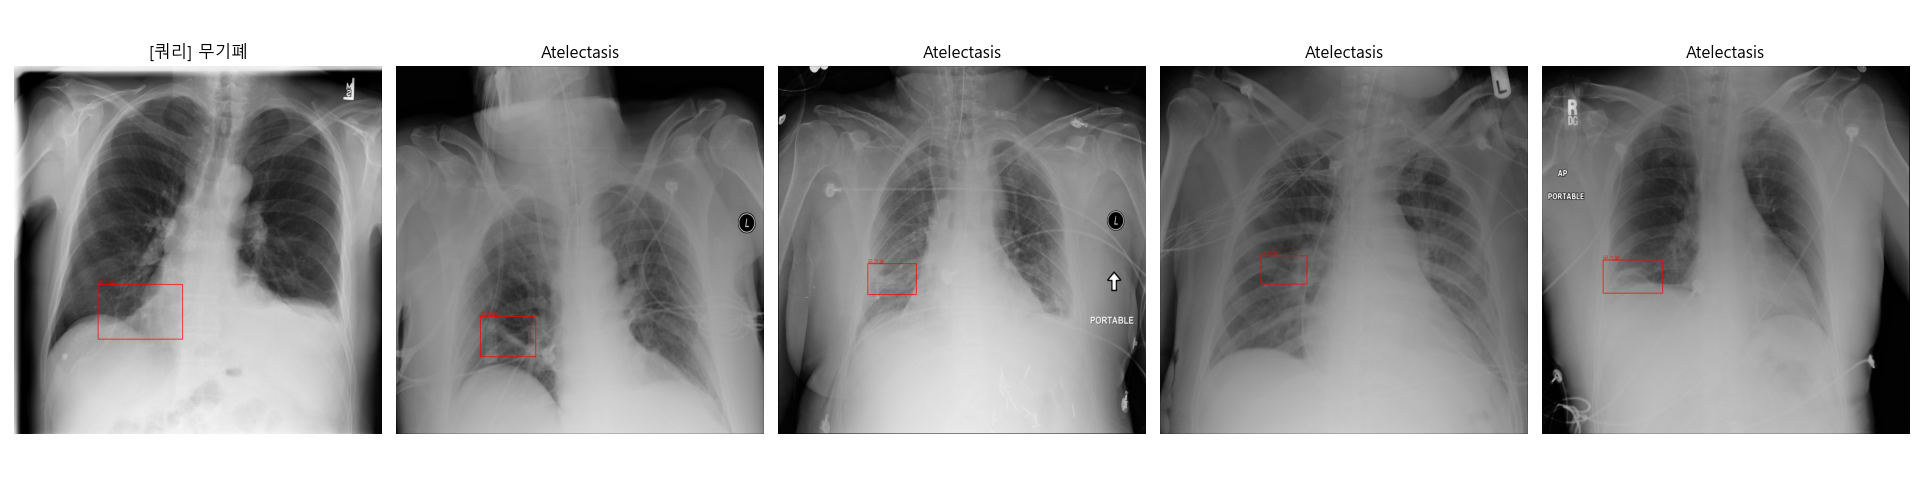
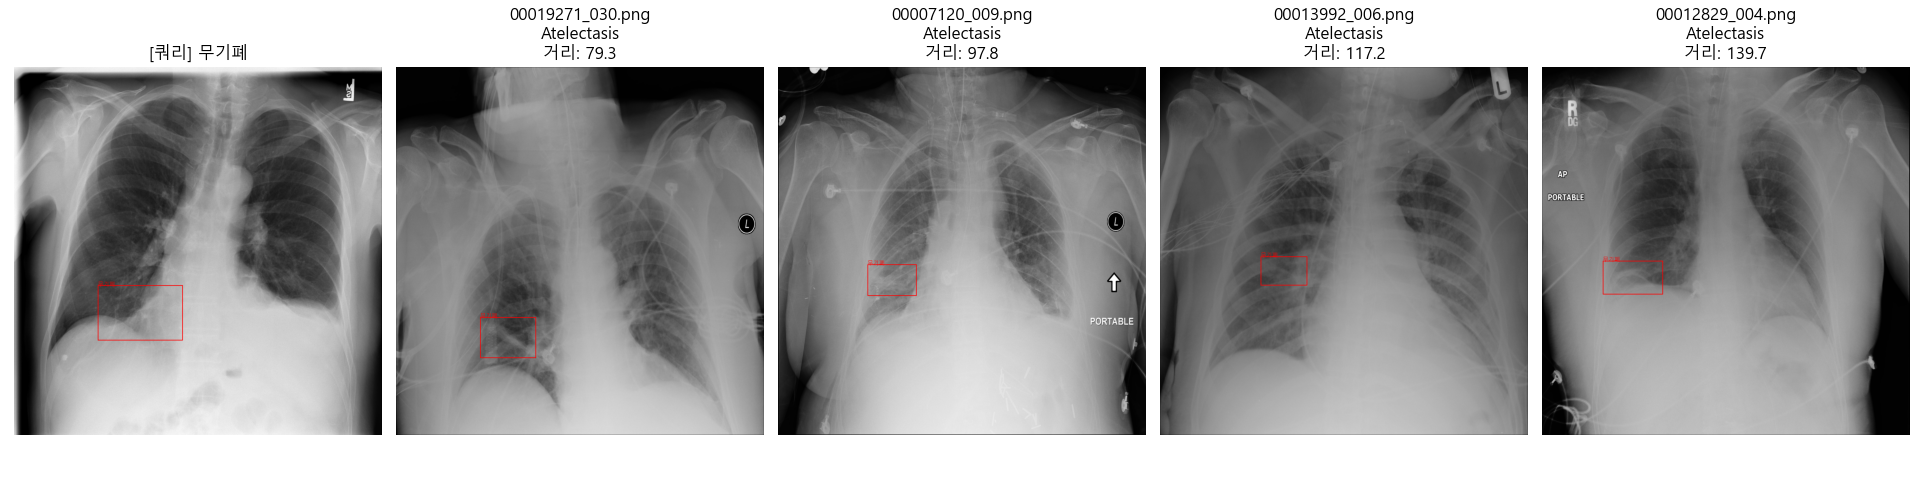
main5 시각화 및 정보 확인 원활 변경

diff --git a/using_yolo_query/main5.py b/using_yolo_query/main5.py
@@ -91,9 +91,15 @@ def search_similar_images_from_yolo_detections(image_path: str, yolo_detections:
                     r_cy = (roi_bbox[1] + roi_bbox[3]) / 2
                     dist = np.sqrt((q_cx - r_cx)**2 + (q_cy - r_cy)**2)
                     score = -dist
-                    result['roi_bbox'] = roi_bbox  # Store selected bbox
+                    result['roi_bbox'] = roi_bbox
+                    result['euclidean_score'] = dist
                     all_candidates.append((score, result))
-                except:
+
+                    image_name = result.get('image_file') or os.path.basename(result.get('image_path', ''))
+                    print(f"      📎 후보 이미지: {image_name}, 거리: {dist:.2f}")
+
+                except Exception as e:
+                    print(f"      ⚠ 거리 계산 실패: {e}")
                     continue
 
         sorted_results = sorted(all_candidates, key=lambda x: x[0], reverse=True)
@@ -104,6 +110,8 @@ def search_similar_images_from_yolo_detections(image_path: str, yolo_detections:
             if item['image_id'] not in seen:
                 final.append(item)
                 seen.add(item['image_id'])
+                image_name = item.get('image_file') or os.path.basename(item.get('image_path', ''))
+                print(f"      ✅ 선택됨: {image_name}, 거리: {item['euclidean_score']:.2f}")
             if len(final) >= top_k:
                 break
 
@@ -130,12 +138,16 @@ def show_matched_images_by_label(query_image_path: str, query_detections: List[D
             full_path = os.path.join(LOCAL_IMAGE_DIR, image_file)
             label_text = ", ".join(match.get("labels", [])) or match.get("primary_label", "Unknown")
             roi_bbox = match.get("roi_bbox")
+            dist_score = match.get("euclidean_score", None)
             if os.path.exists(full_path):
                 result_img = Image.open(full_path).convert("RGB")
                 if roi_bbox:
                     result_img = draw_bbox(result_img.copy(), [{"label": label, "bbox": roi_bbox}], label_map=True)
                 axes[i + 1].imshow(result_img)
-                axes[i + 1].set_title(f"{label_text}")
+                title = f"{image_file}\n{label_text}"
+                if dist_score is not None:
+                    title += f"\n거리: {dist_score:.1f}"
+                axes[i + 1].set_title(title)
                 axes[i + 1].axis('off')
             else:
                 print(f"❌ 이미지 없음: {full_path}")
